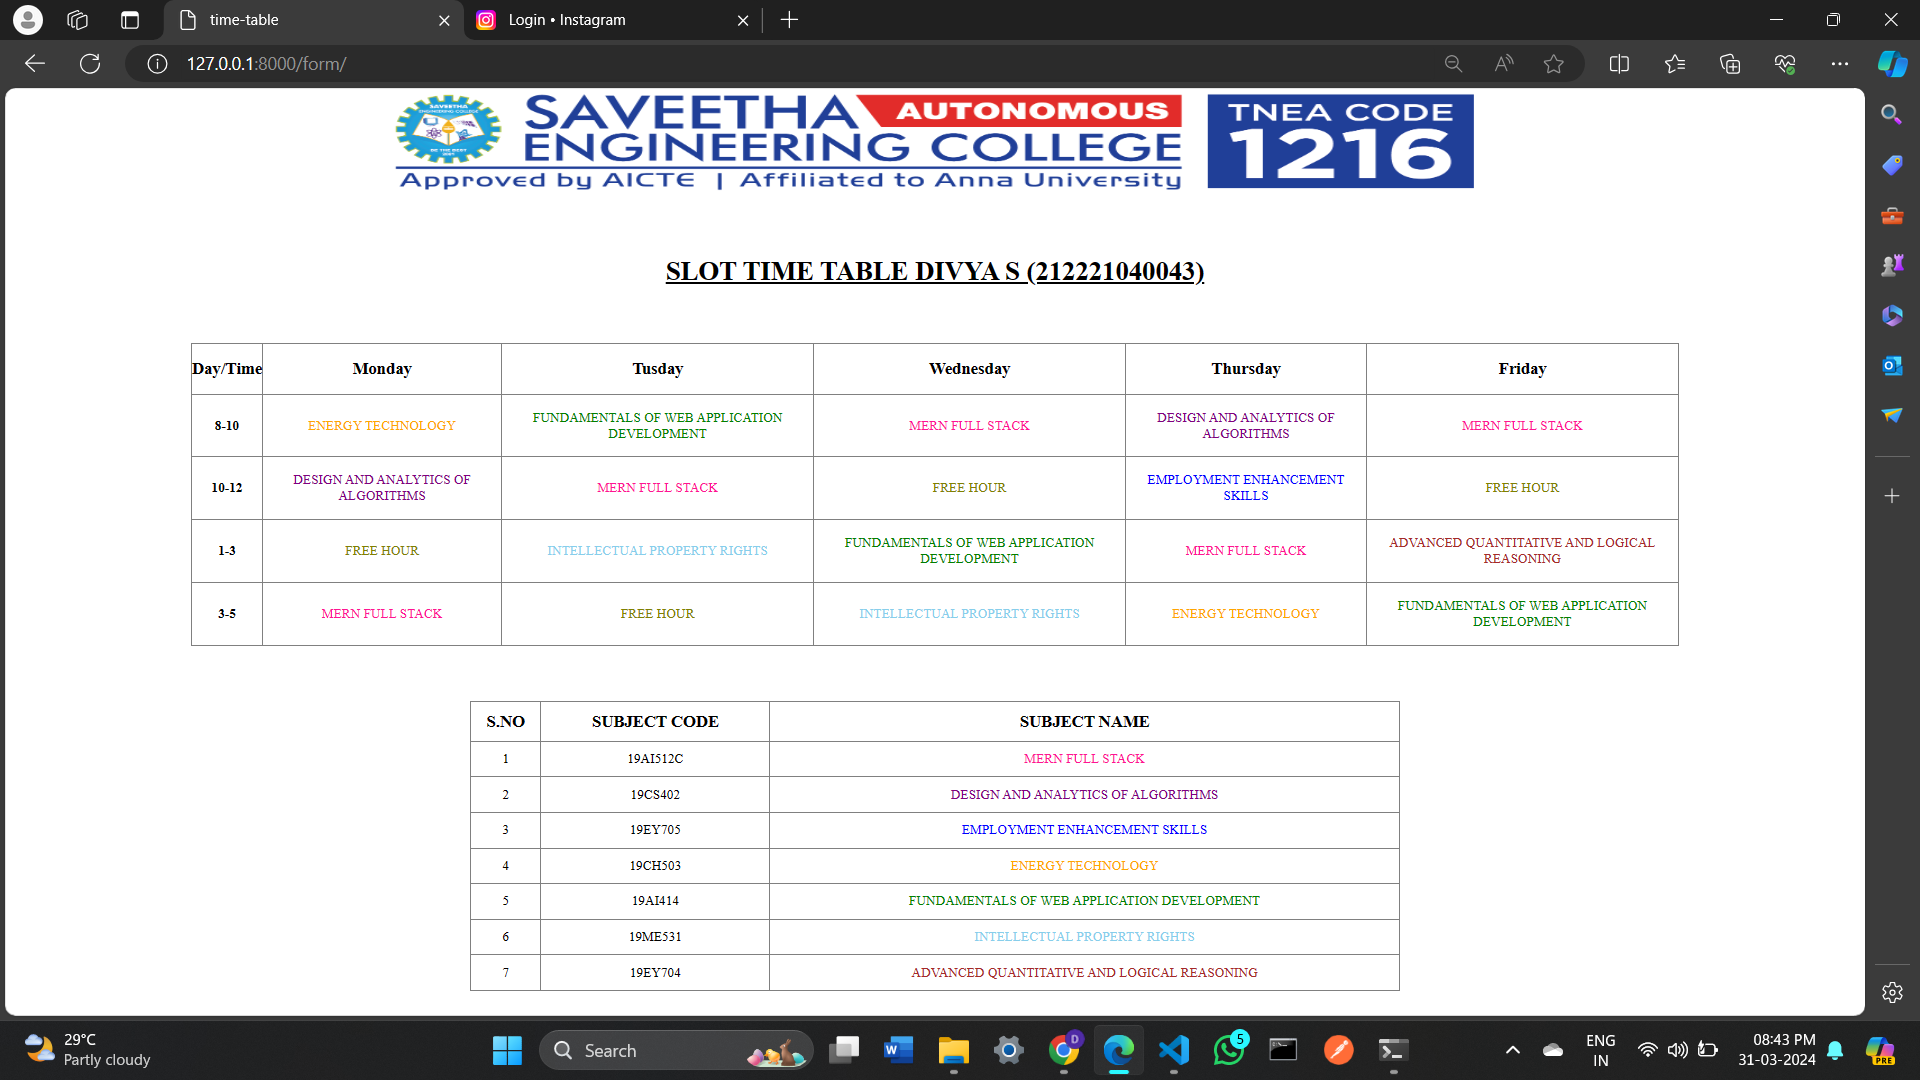
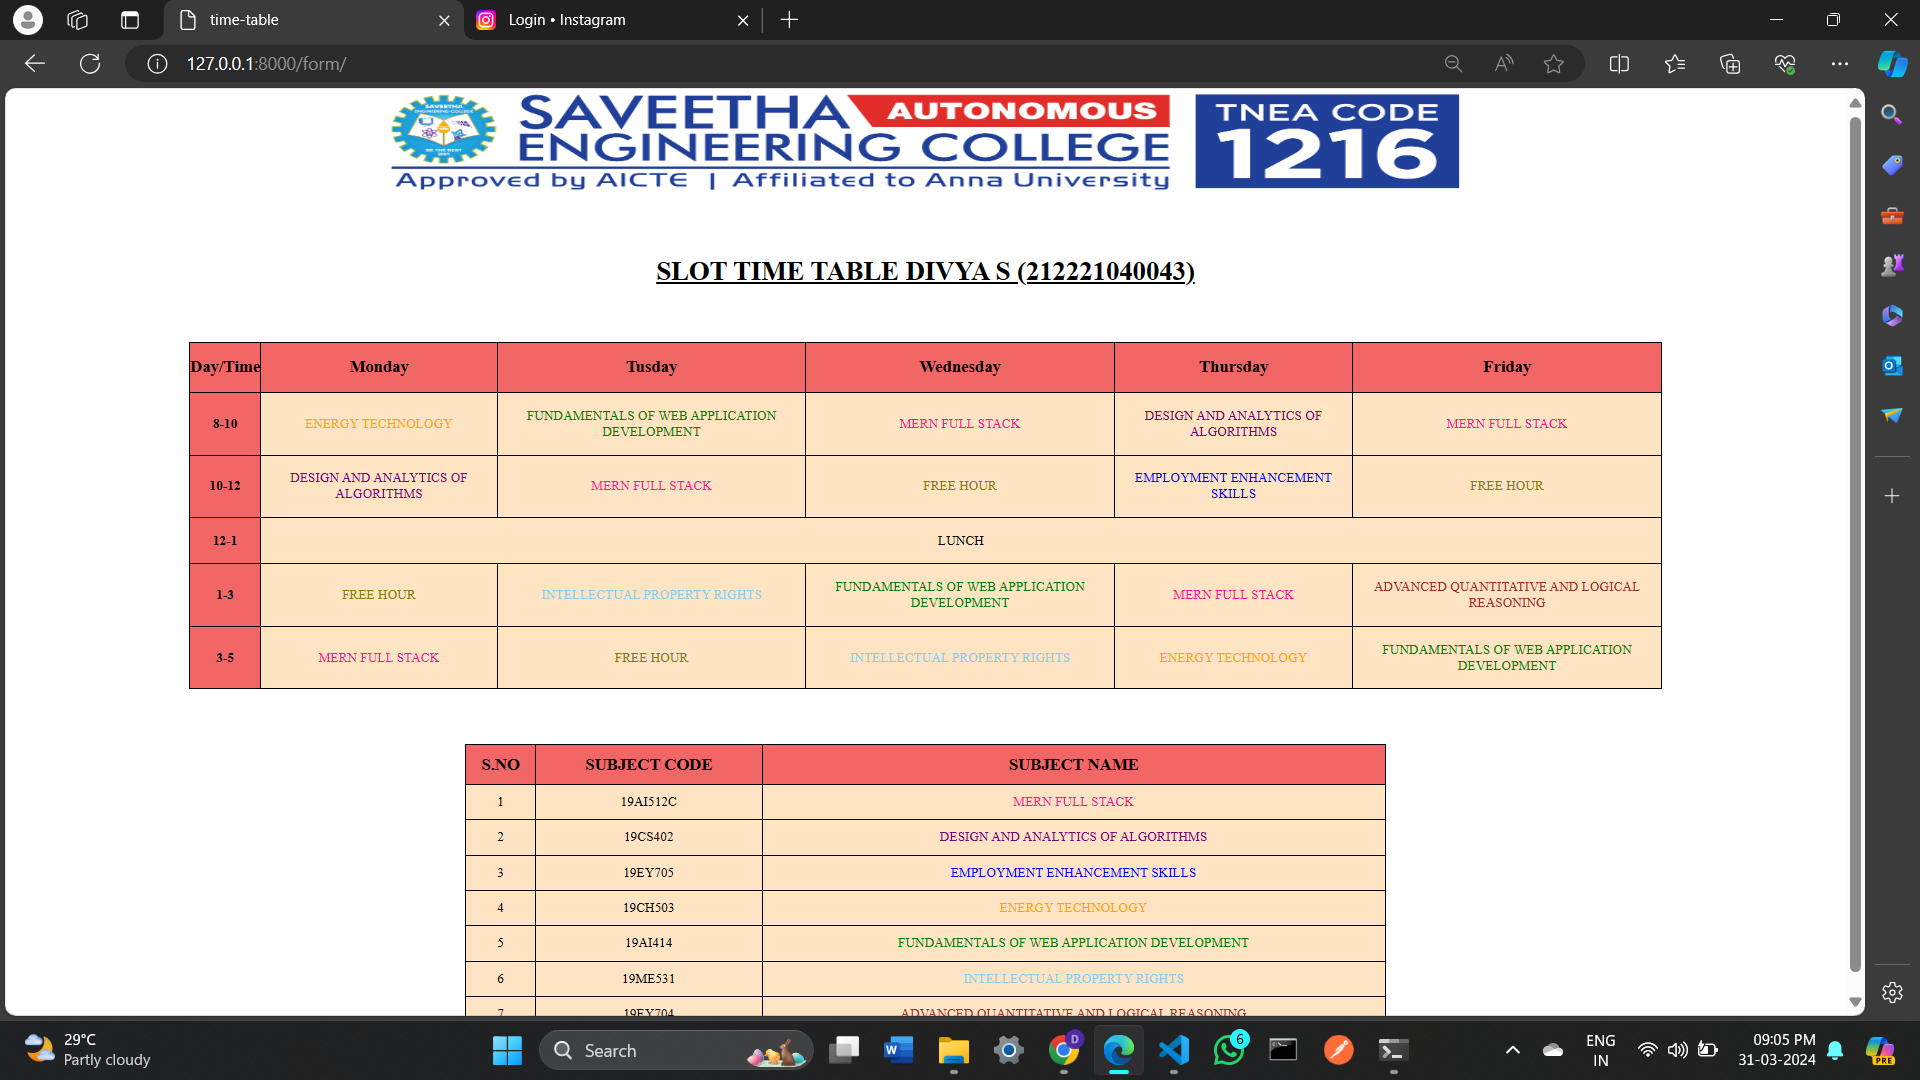
added background

diff --git a/timetable/application/templates/time.html b/timetable/application/templates/time.html
@@ -17,6 +17,7 @@
             margin-left: 10%;
             margin-top: 3%;
             width: 80%;
+            border:2px solid black;
         }
 
         .subject-time {
@@ -26,6 +27,7 @@
             margin-left: 25%;
             margin-top: 3%;
             width: 50%;
+            border:2px solid black;
         }
 
         td,
@@ -41,6 +43,12 @@
         .slot {
             font-weight: bolder;
         }
+        th,.slot{
+            background-color:rgb(242, 102, 102);
+        }
+     td{
+        background-color:bisque;
+     }
     </STYLE>
     {% load static %}
 </head>
@@ -75,6 +83,10 @@
                 <td style="color:olive">FREE HOUR</td>
                 <td style="color:blue">EMPLOYMENT ENHANCEMENT SKILLS</td>
                 <td style="color:olive">FREE HOUR</td>
+            </tr>
+            <tr>
+                <td class="slot">12-1</td>
+                <td colspan="5">LUNCH</td>
             </tr>
             <tr>
                 <td class="slot">1-3</td>

diff --git a/README.md b/README.md
@@ -27,91 +27,110 @@ Execute the program using runserver command.
 ```
 <!DOCTYPE html>
 <html lang="en">
+
 <head>
     <meta charset="UTF-8">
     <meta name="viewport" content="width=device-width, initial-scale=1.0">
     <title>time-table</title>
     <STYLE>
-            body {
+        body {
             margin: 0;
         }
-        .slot-time{
+
+        .slot-time {
             border-collapse: collapse;
             align-items: center;
             text-align: center;
             margin-left: 10%;
             margin-top: 3%;
-            width:80%;
+            width: 80%;
+            border:2px solid black;
         }
-        .subject-time{
+
+        .subject-time {
             border-collapse: collapse;
             align-items: center;
             text-align: center;
             margin-left: 25%;
             margin-top: 3%;
-            width:50%;
+            width: 50%;
+            border:2px solid black;
         }
-        td,th{
+
+        td,
+        th {
             padding: 1%;
         }
-        th{
-        font-weight: bolder;
-        font-size: 20px;
+
+        th {
+            font-weight: bolder;
+            font-size: 20px;
         }
-        .slot{
+
+        .slot {
             font-weight: bolder;
         }
-        
+        th,.slot{
+            background-color:rgb(242, 102, 102);
+        }
+     td{
+        background-color:bisque;
+     }
     </STYLE>
     {% load static %}
 </head>
+
 <body>
     <img src="{%static 'logo.png'%}" alt="Logo" width="60%" height="130px" style="margin-left:20%">
     <h1 style="text-align:center;margin-top:3%;"><u>SLOT TIME TABLE DIVYA S (212221040043)</u></h1>
     <table border="1" class="slot-time">
         <thead>
-        <tr>
-            <th style="padding:0%;">Day/Time</th>
-            <th>Monday</th>
-            <th>Tusday</th>
-            <th>Wednesday</th>
-            <th>Thursday</th>
-            <th>Friday</th>
-        </tr>
-    </thead>
-    <tbody>
-        <tr>
-<td class="slot">8-10</td>
-<td style="color:orange">ENERGY TECHNOLOGY</td>
-<td style="color:green">FUNDAMENTALS OF WEB APPLICATION DEVELOPMENT</td>
-<td style="color:deeppink">MERN FULL STACK</td>
-<td style="color:purple">DESIGN AND ANALYTICS OF ALGORITHMS</td>
-<td style="color:deeppink">MERN FULL STACK</td>
-</tr>
-<tr>
-    <td class="slot">10-12</td>
-<td style="color:purple">DESIGN AND ANALYTICS OF ALGORITHMS</td>
-<td style="color:deeppink">MERN FULL STACK</td>
-<td style="color:olive">FREE HOUR</td>
-<td style="color:blue">EMPLOYMENT ENHANCEMENT SKILLS</td>
-<td style="color:olive">FREE HOUR</td>
-</tr>
-<tr>
-    <td class="slot">1-3</td>
-    <td style="color:olive">FREE HOUR</td>
-    <td style="color:skyblue">INTELLECTUAL PROPERTY RIGHTS</td>
-    <td  style="color:green">FUNDAMENTALS OF WEB APPLICATION DEVELOPMENT</td>
-    <td style="color:deeppink">MERN FULL STACK</td>
-    <td style="color:brown">ADVANCED QUANTITATIVE AND LOGICAL REASONING</td>
-</tr>
-<tr>
-    <td class="slot">3-5</td>
-    <td style="color:deeppink">MERN FULL STACK</td>
-    <td style="color:olive">FREE HOUR</td>
-    <td style="color:skyblue">INTELLECTUAL PROPERTY RIGHTS</td>
-    <td style="color:orange">ENERGY TECHNOLOGY</td>
-    <td  style="color:green">FUNDAMENTALS OF WEB APPLICATION DEVELOPMENT</td>
-</tr>
+            <tr>
+                <th style="padding:0%;">Day/Time</th>
+                <th>Monday</th>
+                <th>Tusday</th>
+                <th>Wednesday</th>
+                <th>Thursday</th>
+                <th>Friday</th>
+            </tr>
+        </thead>
+        <tbody>
+            <tr>
+                <td class="slot">8-10</td>
+                <td style="color:orange">ENERGY TECHNOLOGY</td>
+                <td style="color:green">FUNDAMENTALS OF WEB APPLICATION DEVELOPMENT</td>
+                <td style="color:deeppink">MERN FULL STACK</td>
+                <td style="color:purple">DESIGN AND ANALYTICS OF ALGORITHMS</td>
+                <td style="color:deeppink">MERN FULL STACK</td>
+            </tr>
+            <tr>
+                <td class="slot">10-12</td>
+                <td style="color:purple">DESIGN AND ANALYTICS OF ALGORITHMS</td>
+                <td style="color:deeppink">MERN FULL STACK</td>
+                <td style="color:olive">FREE HOUR</td>
+                <td style="color:blue">EMPLOYMENT ENHANCEMENT SKILLS</td>
+                <td style="color:olive">FREE HOUR</td>
+            </tr>
+            <tr>
+                <td class="slot">12-1</td>
+                <td colspan="5">LUNCH</td>
+            </tr>
+            <tr>
+                <td class="slot">1-3</td>
+                <td style="color:olive">FREE HOUR</td>
+                <td style="color:skyblue">INTELLECTUAL PROPERTY RIGHTS</td>
+                <td style="color:green">FUNDAMENTALS OF WEB APPLICATION DEVELOPMENT</td>
+                <td style="color:deeppink">MERN FULL STACK</td>
+                <td style="color:brown">ADVANCED QUANTITATIVE AND LOGICAL REASONING</td>
+            </tr>
+            <tr>
+                <td class="slot">3-5</td>
+                <td style="color:deeppink">MERN FULL STACK</td>
+                <td style="color:olive">FREE HOUR</td>
+                <td style="color:skyblue">INTELLECTUAL PROPERTY RIGHTS</td>
+                <td style="color:orange">ENERGY TECHNOLOGY</td>
+                <td style="color:green">FUNDAMENTALS OF WEB APPLICATION DEVELOPMENT</td>
+            </tr>
         </tbody>
     </table>
     <table border="1" class="subject-time">
@@ -126,12 +145,12 @@ Execute the program using runserver command.
             <tr>
                 <td>1</td>
                 <td>19AI512C</td>
-                <td style="color:deeppink" >MERN FULL STACK</td>
+                <td style="color:deeppink">MERN FULL STACK</td>
             </tr>
             <tr>
                 <td>2</td>
                 <td>19CS402</td>
-                <td  style="color:purple">DESIGN AND ANALYTICS OF ALGORITHMS</td>
+                <td style="color:purple">DESIGN AND ANALYTICS OF ALGORITHMS</td>
             </tr>
             <tr>
                 <td>3</td>
@@ -141,7 +160,7 @@ Execute the program using runserver command.
             <tr>
                 <td>4</td>
                 <td>19CH503</td>
-                <td  style="color:orange">ENERGY TECHNOLOGY</td>
+                <td style="color:orange">ENERGY TECHNOLOGY</td>
             </tr>
             <tr>
                 <td>5</td>
@@ -161,6 +180,7 @@ Execute the program using runserver command.
         </tbody>
     </table>
 </body>
+
 </html>
 ```
 ## OUTPUT
